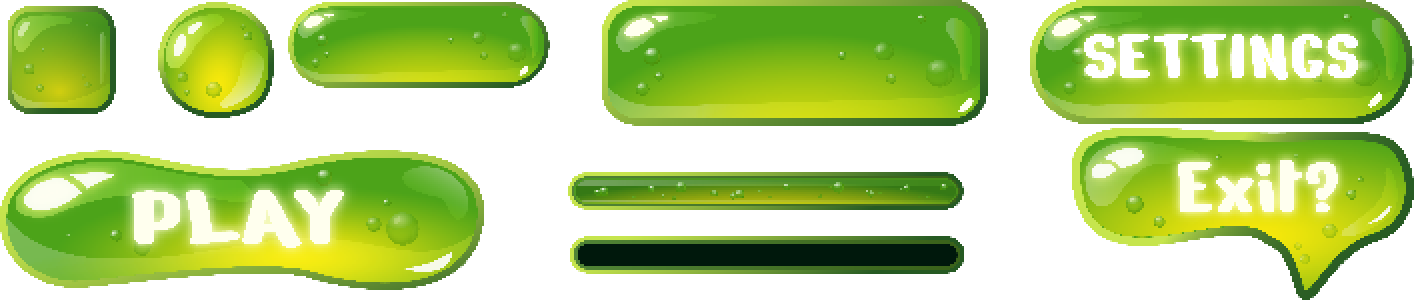
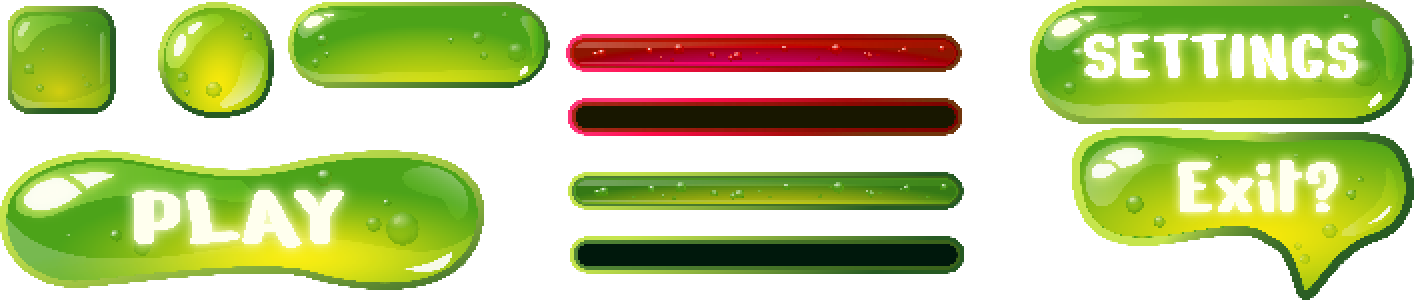
Added overwhelming bar and score text.

Changed region(s): [[0.3734, 0.0, 0.7157, 0.48]]

diff --git a/GameJam_SFML_022023/game.cpp b/GameJam_SFML_022023/game.cpp
@@ -14,11 +14,11 @@ Game::Game() {
 	delta = clock.restart();
 	_next_growth = 0.f;
 	_state = STATE_GAME;
-	if (!texture.loadFromFile(ROOT_TEXTURE))
+	if (!root_texture.loadFromFile(ROOT_TEXTURE))
 		exit(NULL);
-	if (!texture_player.loadFromFile(PLAYER_TEXTURE))
+	if (!player_texture.loadFromFile(PLAYER_TEXTURE))
 		exit(NULL);
-	player.init(&texture_player);
+	player.init(&player_texture);
 	if (!bg_texture.loadFromFile(BG_TEXTURE))
 		exit(NULL);
 	if (!texture_root_end.loadFromFile(ROOT_END_TEXTURE))
@@ -26,6 +26,8 @@ Game::Game() {
 	if (!enemy_texture.loadFromFile(ENEMY_TEXTURE))
 		exit(NULL);
 	if (!particle_texture.loadFromFile(PARTICLE_TEXTURE))
+		exit(NULL);
+	if (!ui_texture.loadFromFile(UI_TEXTURE))
 		exit(NULL);
 	if (!font.loadFromFile(FONT_FILE))
 		exit(NULL);
@@ -35,6 +37,7 @@ Game::Game() {
 	audio.init();
 	menu.init(this);
 	audio.play_music();
+	_init_ui();
 }
 
 void	Game::handle_events(sf::Event& event)
@@ -146,13 +149,18 @@ void	Game::update_values()
 
 	player.handle_movement(delta);
 
+	_grounded_enemies = 0;
 	for (Enemy& enemy : enemies)
 	{
+		if (enemy.is_grounded())
+			_grounded_enemies++;
+
 		enemy.update_position(delta, &roots);
 		player.check_slime_bounce(enemy);
 	}
 
 	player.update_position(delta);
+	_update_ui();
 
 	if (player.is_attacking())
 		audio.play_sound(SOUND_MISS);
@@ -192,6 +200,7 @@ void	Game::render()
 	}
 
 	window.draw(player);
+	_draw_ui();
 
 	if (_state == STATE_MENU)
 		menu.render(window);
@@ -223,4 +232,43 @@ void	Game::exit_game()
 {
 	window.close();
 	exit(EXIT_SUCCESS);
+}
+
+void	Game::_init_ui()
+{
+	_overwhelming_bar_frame.setTexture(&ui_texture);
+	_overwhelming_bar_frame.setSize(sf::Vector2f(395.f, 37.f));
+	_overwhelming_bar_frame.setTextureRect(sf::IntRect(569, 98, 395, 37));
+	_overwhelming_bar_frame.setScale(1.f, 1.f);
+	_overwhelming_bar_frame.setPosition(sf::Vector2f(10.f, 10.f));
+
+	_overwhelming_bar.setTexture(&ui_texture);
+	_overwhelming_bar.setSize(sf::Vector2f(1.f, 37.f));
+	_overwhelming_bar.setTextureRect(sf::IntRect(569, 34, 1, 37));
+	_overwhelming_bar.setScale(1.f, 1.f);
+	_overwhelming_bar.setPosition(sf::Vector2f(10.f, 10.f));
+
+	_text.setFont(font);
+	_text.setString("Score");
+	_text.setCharacterSize(32);
+	_text.setFillColor(sf::Color::White);
+	_text.setPosition(sf::Vector2f(10.f, 47.f));
+}
+
+void	Game::_update_ui()
+{
+	_overwhelming_bar.setSize(sf::Vector2f(_grounded_enemies * 395 / OVERWHELM_ENEMY_COUNT, 37.f));
+	_overwhelming_bar.setTextureRect(sf::IntRect(569, 34, _grounded_enemies * 395 / OVERWHELM_ENEMY_COUNT, 37));
+}
+
+void	Game::_draw_ui()
+{
+	float	offset = -(window.getView().getCenter().x - WIN_W / 2.f);
+
+	_overwhelming_bar_frame.setOrigin(sf::Vector2f(offset, 0.f));
+	_overwhelming_bar.setOrigin(sf::Vector2f(offset, 0.f));
+	_text.setOrigin(sf::Vector2f(offset, 0.f));
+	window.draw(_overwhelming_bar_frame);
+	window.draw(_overwhelming_bar);
+	window.draw(_text);
 }

diff --git a/GameJam_SFML_022023/menu.cpp b/GameJam_SFML_022023/menu.cpp
@@ -6,31 +6,28 @@ Menu::Menu()
 
 void	Menu::init(Game* game)
 {
-	if (!_ui_texture.loadFromFile(UI_TEXTURE))
-		exit(NULL);
-
 	_bg_shadow.setSize(sf::Vector2f((float)(WIN_W), (float)(WIN_H)));
 	_bg_shadow.setFillColor(sf::Color(0, 0, 0, 200));
 
-	_button_play.setTexture(&_ui_texture);
+	_button_play.setTexture(&game->ui_texture);
 	_button_play.setSize(sf::Vector2f(486.f, 150.f));
 	_button_play.setTextureRect(sf::IntRect(0, 150, 486, 150));
 	_button_play.setScale(1.f, 1.f);
 	_button_play.setPosition(sf::Vector2f((float)((WIN_W - 486) / 2), (float)(WIN_H / 4 * 1 - 150 / 2)));
 
-	_button_exit.setTexture(&_ui_texture);
+	_button_exit.setTexture(&game->ui_texture);
 	_button_exit.setSize(sf::Vector2f(344.f, 173.f));
 	_button_exit.setTextureRect(sf::IntRect(1070, 128, 344, 173));
 	_button_exit.setScale(1.f, 1.f);
 	_button_exit.setPosition(sf::Vector2f((float)((WIN_W - 344) / 2), (float)(WIN_H / 4 * 2 - 173 / 2)));
 
-	_volume_bar_frame.setTexture(&_ui_texture);
+	_volume_bar_frame.setTexture(&game->ui_texture);
 	_volume_bar_frame.setSize(sf::Vector2f(395.f, 37.f));
 	_volume_bar_frame.setTextureRect(sf::IntRect(569, 237, 395, 37));
 	_volume_bar_frame.setScale(1.f, 1.f);
 	_volume_bar_frame.setPosition(sf::Vector2f((float)((WIN_W - 365) / 2), (float)(WIN_H / 4 * 3 - 37 / 2)));
 
-	_volume_bar.setTexture(&_ui_texture);
+	_volume_bar.setTexture(&game->ui_texture);
 	_volume_bar.setSize(sf::Vector2f(DEFAULT_VOLUME * 395 / 100.f, 37.f));
 	_volume_bar.setTextureRect(sf::IntRect(569, 173, DEFAULT_VOLUME * 395 / 100, 37));
 	_volume_bar.setScale(1.f, 1.f);

diff --git a/GameJam_SFML_022023/game.h b/GameJam_SFML_022023/game.h
@@ -16,8 +16,9 @@ public:
 	sf::Time			delta;
 	sf::RenderWindow	window;
 	sf::View			view;
-	sf::Texture			texture;
-	sf::Texture			texture_player;
+	sf::Texture			root_texture;
+	sf::Texture			player_texture;
+	sf::Texture			ui_texture;
 	sf::Font			font;
 	Player				player;
 	Audio				audio;
@@ -45,5 +46,12 @@ private:
 	int					_state;
 	float				_next_growth;
 	float				_next_spawn;
+	sf::RectangleShape	_overwhelming_bar_frame;
+	sf::RectangleShape	_overwhelming_bar;
+	sf::Text			_text;
+	int					_grounded_enemies;
 
+	void				_init_ui();
+	void				_update_ui();
+	void				_draw_ui();
 };

diff --git a/GameJam_SFML_022023/plant.cpp b/GameJam_SFML_022023/plant.cpp
@@ -36,7 +36,7 @@
 		_speed = speed;
 		_base.setPosition(position.x - size * 0.64 / 2, position.y);
 		_base.setSize(sf::Vector2f(size * 0.64, size));
-		_tex = &(game->texture);
+		_tex = &(game->root_texture);
 		_root_base.setOrigin(size / 2, 0.f);
 		_root_base.setTexture(&(game->texture_root_end));
 		_root_base.setSize(sf::Vector2f(size * 0.8f,size));

diff --git a/GameJam_SFML_022023/main.h b/GameJam_SFML_022023/main.h
@@ -22,6 +22,8 @@ constexpr int WORLD_H = 720;
 constexpr int BG_SCALE = 6.f;
 constexpr int BG_RELATIVE_SCALE = 13.f;
 
+constexpr int OVERWHELM_ENEMY_COUNT = 100.f;
+
 enum e_sounds
 {
 	SOUND_HIT,
